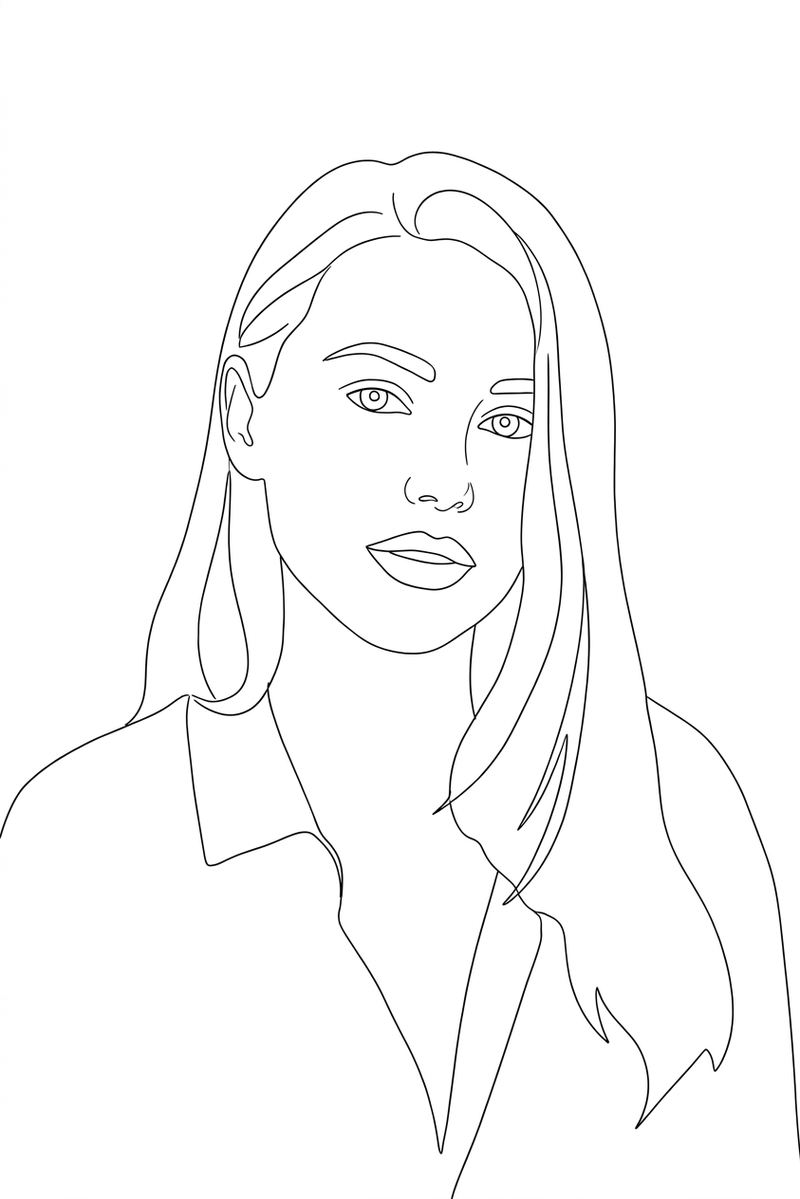
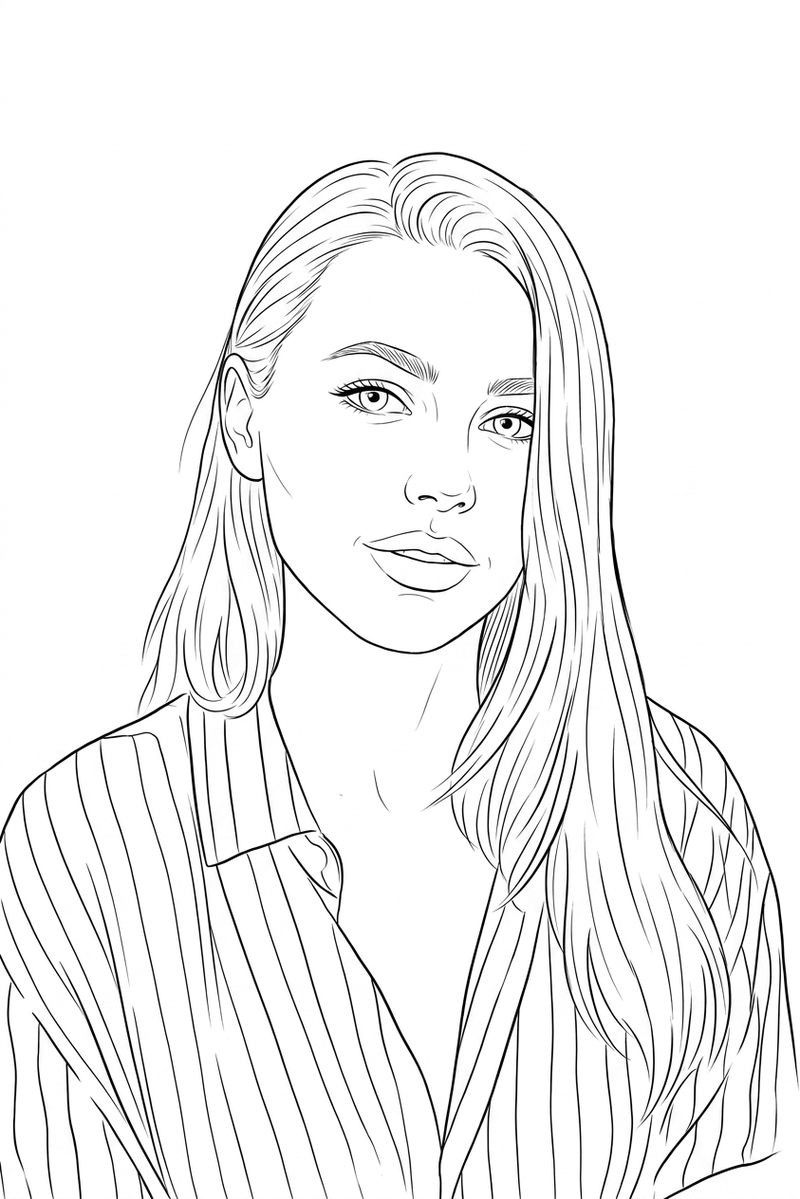
auto-commit for 8d853b2c-4b01-44ab-9246-a0899caa7367

diff --git a/backend/static/tier_compare.html b/backend/static/tier_compare.html
@@ -62,8 +62,8 @@
       <img src="/api/prompt-preview-asset/portrait.jpg" alt="reference">
     </div>
     <div class="card">
-      <div class="label">Light <span class="meta">~140 KB · ink 0.98%</span></div>
-      <img src="/api/prompt-preview-asset/tier_compare_light.png" alt="light">
+      <div class="label">Light <span class="meta">~461 KB · ink 2.17% · Feb 16 prompt</span></div>
+      <img src="/api/prompt-preview-asset/tier_compare_light.png?v=2" alt="light">
     </div>
     <div class="card">
       <div class="label">Medium <span class="meta">~525 KB · ink 3.53%</span></div>

diff --git a/backend/server.py b/backend/server.py
@@ -1895,44 +1895,38 @@ def build_blueprint_prompt(line_color: str, detail_level: str) -> str:
         line_color: rendered line color (e.g. "purple/violet", "black").
         detail_level: one of "minimal", "moderate", "detailed".
     """
-    # LIGHT: standalone "clean line drawing" prompt — does NOT inherit the
-    # Blueprint Heavy+ framing. Empirically required: appending negative
-    # constraints to the Heavy+ base prompt failed to suppress dotted/
-    # tertiary marks because the model anchors on "tattoo stencil" +
-    # four-tier hierarchy framing.
+    # LIGHT: Feb 16 2026 prompt — photo-to-line-art tracing brief.
+    # Standalone; does NOT inherit Blueprint Heavy+ framing. The user
+    # preferred this minimal style over later iterations.
     if detail_level == "minimal":
-        return f"""CLEAN LINE DRAWING — minimal outline.
+        return f"""IMPORTANT: Convert THIS EXACT input image to a line art stencil. DO NOT create a different image.
 
-You are producing a clean, minimal LINE DRAWING of the subject in the reference image.
+ABSOLUTE RULES - VIOLATION IS FAILURE:
+1. The output MUST show the EXACT SAME subject as the input
+2. The output MUST have the EXACT SAME composition as the input
+3. The output MUST have the EXACT SAME pose/position as the input
+4. If input shows a face, output must show THAT SAME face in SAME position
+5. If input shows an object, output must show THAT SAME object in SAME position
+6. DO NOT create your own version or interpretation
+7. DO NOT draw a "similar" subject - draw THIS subject
 
-This is a strict image-to-line translation. Match the reference exactly in pose, proportions, and structure. Do not reinterpret or redesign the subject.
+TASK: Photo-to-line-art conversion (NOT creative generation)
+- Input: The photo I'm providing
+- Output: A line drawing of EXACTLY what's in that photo
+- Think of this as TRACING, not drawing from imagination
 
-OUTPUT:
-- {line_color} lines on a pure white background
-- Pure linework only — clean, continuous strokes
-- Primarily consistent line weight, with slight variation for readability (outer contours may be slightly stronger than internal lines)
+TECHNICAL SPECS:
+- Use {line_color} colored lines on pure white background
+- NO gradients, NO soft shading, NO gray tones
+- All shading via line techniques only (cross-hatch, dots, parallel lines)
 
-DRAW:
-- Outer silhouette of the subject (head, hair mass, shoulders if visible)
-- Major structural boundaries (jawline, hairline, neckline)
-- Key facial features as simple outlines:
-  • Eyes — almond outline, iris circle, pupil circle (hollow)
-  • Eyebrows — single contour line
-  • Nose — bridge line, nostril outline, tip contour
-  • Lips — upper line, lower line, mouth opening
-  • Ears — outer outline if visible
-- Minimal facial contour lines only where necessary to define structure (cheek, under-eye)
-- Hair:
-  • One clean outer shape
-  • 2–4 directional flow lines only where needed
+SHADING AMOUNT: MINIMAL
+- Outlines only, minimal internal detail
 
-STYLE:
-- Clean, sparse, confident line drawing
-- High readability at a glance
-- Every line serves a purpose — no excess detail
+BLACK FILLS: NONE
+- None - lines only
 
-VISUAL TARGET:
-A minimal structural outline where the core form is clearly readable, but all rendering, shading, and texture are left for the artist to interpret."""
+VERIFY: Before outputting, check that your stencil matches the input image exactly."""
 
     detail_blocks = {
         "minimal": (

diff --git a/backend/tests/test_prompt_tier_differentiation.py b/backend/tests/test_prompt_tier_differentiation.py
@@ -18,8 +18,10 @@ from server import build_blueprint_prompt
 def test_light_is_standalone_prompt():
     light = build_blueprint_prompt("black", "minimal")
 
-    # Light must use the clean-line-drawing framing
-    assert "CLEAN LINE DRAWING" in light
+    # Light uses the Feb-16-2026 photo-to-line-art tracing brief
+    assert "TRACING" in light
+    assert "SHADING AMOUNT: MINIMAL" in light
+    assert "BLACK FILLS: NONE" in light
 
     # Light must NOT inherit any Blueprint Heavy+ framing — this is
     # the entire point of branching it out.
@@ -29,7 +31,6 @@ def test_light_is_standalone_prompt():
     assert "PRIMARY" not in light
     assert "SECONDARY" not in light
     assert "TERTIARY" not in light
-    assert "Tattoo Stencil" not in light
     assert "thermofax" not in light
 
 
@@ -51,8 +52,8 @@ def test_heavy_uses_blueprint_heavy_plus_base_with_dotted():
 def test_line_color_is_interpolated_into_light():
     light_black = build_blueprint_prompt("black", "minimal")
     light_purple = build_blueprint_prompt("purple/violet", "minimal")
-    assert "black lines on a pure white background" in light_black
-    assert "purple/violet lines on a pure white background" in light_purple
+    assert "black colored lines on pure white background" in light_black
+    assert "purple/violet colored lines on pure white background" in light_purple
 
 
 def test_tier_lengths_signal_clear_separation():
